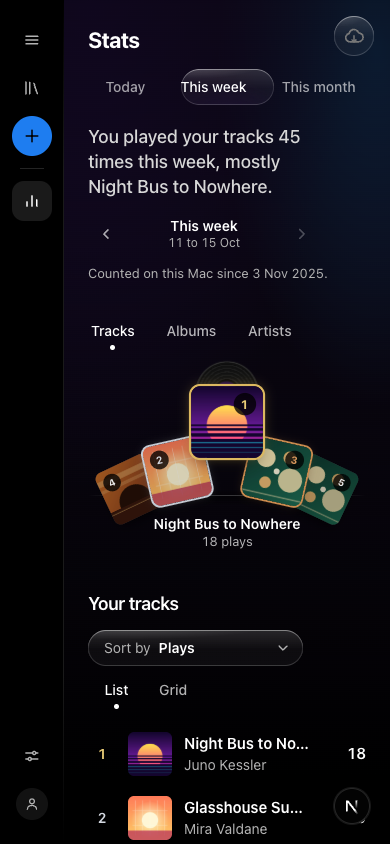
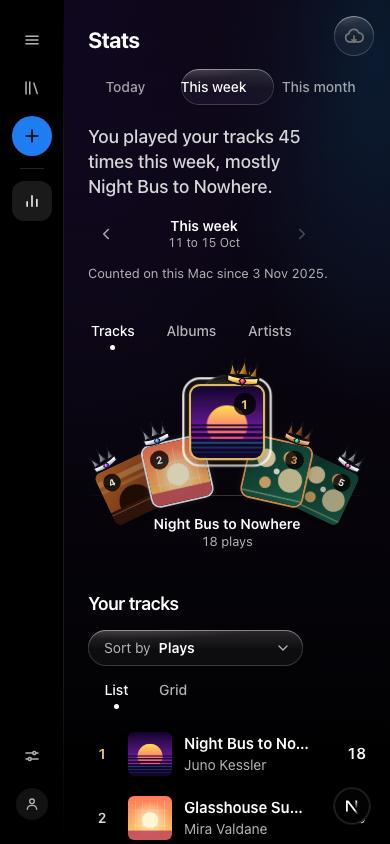
Stats page: rank crowns on the top five sleeves (#145)
Adds inked gothic crowns (scripts/make-rank-crowns.py) on the badge corner of the top five fan sleeves, with a simpler drawing below 64px.
Placement and the small-size rule follow Codex's notes; decorative only, no motion of their own.

Claude-Session: https://claude.ai/code/session_016wtvpvRFjMyGctvKw2v9pz

diff --git a/apps/web/src/app/globals.css b/apps/web/src/app/globals.css
@@ -2301,6 +2301,45 @@ body {
 .fan-rank[data-medal="gold"] { color: #ecce78; }
 .fan-rank[data-medal="silver"] { color: #d3d8e0; }
 .fan-rank[data-medal="bronze"] { color: #dc9a5e; }
+/* The rank crown (top five): perched on the badge's corner, its band just over the sleeve's top edge
+   and the badge beneath it. It lives inside the button so it tilts and lifts with the sleeve, lets
+   every click through (the hit area is the sleeve's) and has no motion of its own. The simpler
+   drawing shows by default; the full one only where the crown is 64px wide or more (see the
+   container query after the narrow block). 0.42 of the sleeve is the crown's width, 0.354 its height. */
+.fan-crown {
+  --fan-crown-w: calc(var(--w) * 0.42);
+  position: absolute;
+  z-index: 2;
+  top: calc(var(--fan-crown-w) * -0.777);
+  right: calc(var(--w) * 0.02);
+  width: var(--fan-crown-w);
+  pointer-events: none;
+  transform-origin: 50% 100%;
+  transform: rotate(7deg);
+}
+.fan-sleeve[data-side="left"] .fan-crown {
+  left: calc(var(--w) * 0.02);
+  right: auto;
+  transform: rotate(-7deg);
+}
+.fan-crown img {
+  display: block;
+  width: 100%;
+  height: auto;
+  pointer-events: none;
+}
+.fan-crown .fan-crown-full {
+  display: none;
+}
+/* A disc's badge sits inside the circle, so the crown rides above it in the square's empty corner. */
+.fan[data-size="page"] .fan-sleeve[data-shape="disc"] .fan-crown {
+  top: calc(var(--fan-crown-w) * -0.777 + var(--w) * 0.1);
+  right: calc(var(--w) * 0.1);
+}
+.fan[data-size="page"] .fan-sleeve[data-shape="disc"][data-side="left"] .fan-crown {
+  left: calc(var(--w) * 0.1);
+  right: auto;
+}
 .fan-tag {
   position: absolute;
   left: 0;
@@ -2400,8 +2439,21 @@ body {
   .fan[data-size="page"] .fan-tag {
     display: none;
   }
+  /* The sleeves are small here, so the crown is a little larger relative to them to stay readable. */
+  .fan[data-size="page"] .fan-crown {
+    --fan-crown-w: calc(var(--w) * 0.56);
+  }
   .fan-caption {
     display: block;
+  }
+}
+/* Room for the page sleeve to be 152px or more (22cqw), so the crown is 64px wide or more: the full drawing. */
+@container (min-width: 700px) {
+  .fan[data-size="page"] .fan-crown .fan-crown-full {
+    display: block;
+  }
+  .fan[data-size="page"] .fan-crown .fan-crown-small {
+    display: none;
   }
 }
 

diff --git a/apps/web/src/components/stats/SleeveFan.tsx b/apps/web/src/components/stats/SleeveFan.tsx
@@ -222,6 +222,14 @@ function Sleeve({
             <MusicNoteIcon className="h-6 w-6" />
           </span>
         )}
+        {item.rank <= 5 && (
+          <span aria-hidden className="fan-crown">
+            {/* eslint-disable-next-line @next/next/no-img-element -- two tiny local SVGs, swapped by CSS at 64px */}
+            <img src={`/crowns/crown-${item.rank}.svg`} alt="" draggable={false} decoding="async" className="fan-crown-full" />
+            {/* eslint-disable-next-line @next/next/no-img-element -- see above */}
+            <img src={`/crowns/crown-${item.rank}-small.svg`} alt="" draggable={false} decoding="async" className="fan-crown-small" />
+          </span>
+        )}
         <span aria-hidden className="fan-rank" data-medal={medal}>
           {item.rank}
         </span>

diff --git a/scripts/make-rank-crowns.py b/scripts/make-rank-crowns.py
@@ -1,0 +1,161 @@
+#!/usr/bin/env python3
+"""Draws the five rank crowns for the Stats fan (#145) as SVG. Gothic ink (white line art round dark
+ink, hatching on the shadow side), spires with gems, metal by medal, gems by rank, an icy pave row and
+glints. Number one is the grandest (five spires). Each rank has a full drawing and a simpler small one
+for under 64px.
+
+Outputs (crown-1.svg .. crown-5.svg and crown-1-small.svg .. crown-5-small.svg):
+  apps/web/public/crowns/
+
+Usage: python3 -I scripts/make-rank-crowns.py apps/web/public/crowns [--preview]
+  --preview also writes preview.html into the out dir (keep that out of the repo).
+"""
+import sys, os
+
+OUT = sys.argv[1]
+PREVIEW = "--preview" in sys.argv[2:]
+os.makedirs(OUT, exist_ok=True)
+
+METALS = {
+    "gold":   ["#fffbe6", "#ffe58a", "#e8b030", "#fff6cc", "#c08414", "#6a4206"],
+    "silver": ["#ffffff", "#eef2f7", "#aeb7c4", "#ffffff", "#7d8797", "#343a46"],
+    "bronze": ["#fff0e0", "#f2b880", "#b0682e", "#fde0c2", "#8c4a1c", "#43210a"],
+}
+GEMS = {
+    "ruby":     ("#ff3148", "#ffa3ad", "#7d0414"),
+    "sapphire": ("#2f97ff", "#b3e0ff", "#082f78"),
+    "emerald":  ("#14cf83", "#aaf7d6", "#04512f"),
+    "amethyst": ("#a052ff", "#dfc2ff", "#3f0f85"),
+    "rose":     ("#ff55b0", "#ffc8e7", "#86104f"),
+}
+RANKS = [(1, "gold", "ruby"), (2, "silver", "sapphire"), (3, "bronze", "emerald"), (4, "silver", "amethyst"), (5, "silver", "rose")]
+INK = "#120e17"
+
+def f(n):
+    return f"{n:.2f}".rstrip("0").rstrip(".")
+
+def spire(bl, br, tx, ty, by, bend=0.55):
+    """A gothic spire: concave sides that flare at the base and pinch to a sharp tip."""
+    cx = (bl + br) / 2
+    h = by - ty
+    return (f"M{f(bl)} {f(by)} "
+            f"C{f(bl + (cx - bl) * 0.55)} {f(by - h * 0.25)} {f(tx - (tx - bl) * bend * 0.35)} {f(ty + h * 0.45)} {f(tx)} {f(ty)} "
+            f"C{f(tx + (br - tx) * bend * 0.35)} {f(ty + h * 0.45)} {f(br - (br - cx) * 0.55)} {f(by - h * 0.25)} {f(br)} {f(by)} Z")
+
+def gem(cx, cy, w, h, key, gid):
+    base, light, dark = GEMS[key]
+    t, b, l, r = cy - h * 0.5, cy + h * 0.5, cx - w * 0.5, cx + w * 0.5
+    g = cy - h * 0.1
+    return (f'<path d="M{f(cx)} {f(t)} L{f(r)} {f(g)} L{f(cx)} {f(b)} L{f(l)} {f(g)} Z" fill="url(#{gid})" stroke="{INK}" stroke-width="1.5" stroke-linejoin="round"/>'
+            f'<path d="M{f(cx)} {f(t)} L{f(r)} {f(g)} L{f(cx)} {f(g + h * .1)} Z" fill="{light}" opacity=".6"/>'
+            f'<path d="M{f(l)} {f(g)} L{f(cx)} {f(g + h * .1)} L{f(cx)} {f(b)} Z" fill="{dark}" opacity=".6"/>'
+            f'<path d="M{f(l)} {f(g)} L{f(r)} {f(g)}" stroke="{INK}" stroke-width=".6" opacity=".55"/>'
+            f'<circle cx="{f(cx - w * .17)}" cy="{f(g - h * .16)}" r="{f(max(.8, w * .1))}" fill="#fff"/>')
+
+def stud(cx, cy, r):
+    return (f'<circle cx="{f(cx)}" cy="{f(cy)}" r="{f(r)}" fill="url(#ice)" stroke="{INK}" stroke-width=".8"/>'
+            f'<circle cx="{f(cx - r * .35)}" cy="{f(cy - r * .35)}" r="{f(r * .38)}" fill="#fff"/>')
+
+def sparkle(cx, cy, s, op=1.0):
+    k = s * 0.14
+    return (f'<path d="M{f(cx)} {f(cy - s)} C{f(cx + k)} {f(cy - k)} {f(cx + k)} {f(cy - k)} {f(cx + s)} {f(cy)} '
+            f'C{f(cx + k)} {f(cy + k)} {f(cx + k)} {f(cy + k)} {f(cx)} {f(cy + s)} C{f(cx - k)} {f(cy + k)} {f(cx - k)} {f(cy + k)} {f(cx - s)} {f(cy)} '
+            f'C{f(cx - k)} {f(cy - k)} {f(cx - k)} {f(cy - k)} {f(cx)} {f(cy - s)} Z" fill="#fff" opacity="{op}"/>')
+
+def crown(rank, metal, gemkey):
+    m = METALS[metal]
+    grand = rank == 1
+    # (base left, base right, tip x, tip y, base y, is_main)
+    spires = [(14, 42, 19, 12, 60, True), (42, 78, 60, 2, 56, True), (78, 106, 101, 12, 60, True)]
+    if grand:
+        spires = [(34, 50, 41, 24, 58, False), (70, 86, 79, 24, 58, False)] + spires
+    back = "M14 58 Q60 40 106 58 L104 64 Q60 50 16 64 Z"   # the inside of the band, seen between spires
+    band = "M10 60 Q60 73 110 60 L108 78 Q60 93 12 78 Z"
+    shapes = "".join(f'<path d="{spire(*s[:5])}"/>' for s in spires)
+    # hatching only on each spire's shadow (right) side, clipped to that spire
+    defs, hatch = [], []
+    for i, (bl, br, tx, ty, by, main) in enumerate(spires):
+        cid = f"s{rank}{i}"
+        defs.append(f'<clipPath id="{cid}"><path d="{spire(bl, br, tx, ty, by)}"/></clipPath>')
+        x0 = tx + 1.5
+        lines = "".join(f'<path d="M{f(x)} {f(ty - 4)} L{f(x - 9)} {f(by + 4)}"/>' for x in [x0 + j * 2.6 for j in range(int((br - x0) / 2.6) + 4)])
+        hatch.append(f'<g clip-path="url(#{cid})">{lines}</g>')
+    # white ink highlight along each spire's lit (left) edge
+    lit = "".join(
+        f'<path d="M{f(bl + 3)} {f(by - 3)} C{f(bl + (tx - bl) * .45 + 2)} {f(by - (by - ty) * .3)} {f(tx - (tx - bl) * .2 + 1)} {f(ty + (by - ty) * .4)} {f(tx + .4)} {f(ty + 4)}"/>'
+        for (bl, br, tx, ty, by, main) in spires if main)
+    gems, gdefs = [], []
+    for i, (bl, br, tx, ty, by, main) in enumerate(spires):
+        if not main:
+            continue
+        gid = f"g{rank}{i}"
+        base, light, dark = GEMS[gemkey]
+        gdefs.append(f'<radialGradient id="{gid}" cx="38%" cy="32%" r="78%"><stop offset="0" stop-color="{light}"/><stop offset=".45" stop-color="{base}"/><stop offset="1" stop-color="{dark}"/></radialGradient>')
+        gx = tx + ((bl + br) / 2 - tx) * .55
+        gy = by - (by - ty) * .36
+        size = 19 if bl == 42 else 14.5
+        gems.append(gem(gx, gy, size * .74, size, gemkey, gid))
+    gid = f"g{rank}band"
+    base, light, dark = GEMS[gemkey]
+    gdefs.append(f'<radialGradient id="{gid}" cx="38%" cy="32%" r="78%"><stop offset="0" stop-color="{light}"/><stop offset=".45" stop-color="{base}"/><stop offset="1" stop-color="{dark}"/></radialGradient>')
+    band_gem = gem(60, 74.5, 13, 15, gemkey, gid)
+    pave = "".join(stud(x, 69.5 + 4.6 * (1 - ((x - 60) / 50) ** 2) - 0.5, 1.9 if grand else 1.7)
+                   for x in ([18, 25, 32, 39, 46, 74, 81, 88, 95, 102] if grand else [22, 31, 40, 80, 89, 98]))
+    glints = sparkle(60, 2, 7 if grand else 5) + sparkle(106, 30, 4, .9) + sparkle(13, 40, 3, .8) + (sparkle(84, 66, 3.2, .95) if grand else "")
+    return f'''<svg xmlns="http://www.w3.org/2000/svg" viewBox="-4 -8 128 108" width="128" height="108">
+  <defs>
+    <linearGradient id="m{rank}" x1="0" y1="0" x2="1" y2=".25">
+      <stop offset="0" stop-color="{m[1]}"/><stop offset=".22" stop-color="{m[2]}"/><stop offset=".5" stop-color="{m[5]}"/>
+      <stop offset="1" stop-color="#17121c"/>
+    </linearGradient>
+    <linearGradient id="b{rank}" x1="0" y1="0" x2="0" y2="1">
+      <stop offset="0" stop-color="{m[3]}"/><stop offset=".3" stop-color="{m[1]}"/><stop offset=".65" stop-color="{m[4]}"/><stop offset="1" stop-color="{m[5]}"/>
+    </linearGradient>
+    <linearGradient id="in{rank}" x1="0" y1="0" x2="0" y2="1"><stop offset="0" stop-color="{m[5]}"/><stop offset="1" stop-color="{m[4]}"/></linearGradient>
+    <radialGradient id="ice" cx="35%" cy="35%" r="70%"><stop offset="0" stop-color="#fff"/><stop offset=".55" stop-color="#d6efff"/><stop offset="1" stop-color="#7895ad"/></radialGradient>
+    {"".join(defs)}{"".join(gdefs)}
+  </defs>
+  <!-- white line art round the dark ink, as on the reference cover -->
+  <g fill="none" stroke="#f4f1ea" stroke-width="1.6" stroke-linejoin="round" stroke-linecap="round" stroke-dasharray="14 5 3 6" opacity=".7">{shapes}<path d="{band}"/></g>
+  <path d="{back}" fill="url(#in{rank})" stroke="{INK}" stroke-width="2" stroke-linejoin="round"/>
+  <g fill="url(#m{rank})" stroke="{INK}" stroke-width="2.4" stroke-linejoin="round">{shapes}</g>
+  <g stroke="#f4f1ea" stroke-width=".5" opacity=".22">{"".join(hatch)}</g>
+  <g fill="none" stroke="{m[0]}" stroke-width="1.4" stroke-linecap="round" opacity=".95">{lit}</g>
+  <path d="{band}" fill="url(#b{rank})" stroke="{INK}" stroke-width="2.4" stroke-linejoin="round"/>
+  <path d="M14 63.5 Q60 76 106 63.5" fill="none" stroke="#fff" stroke-width="1" opacity=".6"/>
+  <path d="M15 76 Q60 89 105 76" fill="none" stroke="{INK}" stroke-width=".9" opacity=".55"/>
+  {"".join(gems)}{pave}{band_gem}
+  {glints}
+</svg>'''
+
+def crown_small(rank, metal, gemkey):
+    m = METALS[metal]
+    grand = rank == 1
+    spires = [(14, 42, 19, 12, 60), (42, 78, 60, 2, 56), (78, 106, 101, 12, 60)]
+    if grand:
+        spires = [(34, 50, 41, 24, 58), (70, 86, 79, 24, 58)] + spires
+    band = "M10 60 Q60 73 110 60 L108 80 Q60 95 12 80 Z"
+    shapes = "".join(f'<path d="{spire(*s)}"/>' for s in spires)
+    base, light, dark = GEMS[gemkey]
+    return f'''<svg xmlns="http://www.w3.org/2000/svg" viewBox="-4 -8 128 108" width="128" height="108">
+  <defs>
+    <linearGradient id="sm{rank}" x1="0" y1="0" x2="1" y2=".25"><stop offset="0" stop-color="{m[1]}"/><stop offset=".3" stop-color="{m[2]}"/><stop offset="1" stop-color="{m[5]}"/></linearGradient>
+    <linearGradient id="sb{rank}" x1="0" y1="0" x2="0" y2="1"><stop offset="0" stop-color="{m[3]}"/><stop offset=".4" stop-color="{m[1]}"/><stop offset="1" stop-color="{m[4]}"/></linearGradient>
+    <radialGradient id="sg{rank}" cx="38%" cy="32%" r="78%"><stop offset="0" stop-color="{light}"/><stop offset=".45" stop-color="{base}"/><stop offset="1" stop-color="{dark}"/></radialGradient>
+  </defs>
+  <g fill="url(#sm{rank})" stroke="{INK}" stroke-width="5" stroke-linejoin="round">{shapes}</g>
+  <path d="{band}" fill="url(#sb{rank})" stroke="{INK}" stroke-width="5" stroke-linejoin="round"/>
+  <path d="M60 64 L71 76 L60 90 L49 76 Z" fill="url(#sg{rank})" stroke="{INK}" stroke-width="3.5" stroke-linejoin="round"/>
+</svg>'''
+
+for rank, metal, g in RANKS:
+    with open(os.path.join(OUT, f"crown-{rank}.svg"), "w") as fh:
+        fh.write(crown(rank, metal, g))
+    with open(os.path.join(OUT, f"crown-{rank}-small.svg"), "w") as fh:
+        fh.write(crown_small(rank, metal, g))
+if PREVIEW:
+    cells = "".join(f'<figure><img src="crown-{r}.svg" style="width:{w}px"><figcaption>#{r} full {w}px</figcaption></figure>' for w in (230, 96, 64) for r, m, g in RANKS)
+    cells += "".join(f'<figure class="{bg}"><img src="crown-{r}-small.svg" style="width:{w}px"><figcaption>#{r} small {w}px</figcaption></figure>' for bg in ("dark", "pale") for w in (56, 30) for r, m, g in RANKS)
+    with open(os.path.join(OUT, "preview.html"), "w") as fh:
+        fh.write(f'<!doctype html><meta charset="utf-8"><style>body{{margin:0;padding:24px;background:#0e0b14;color:#9a95a3;font:12px -apple-system;display:grid;grid-template-columns:repeat(5,1fr);gap:16px;align-items:end}} figure{{margin:0;text-align:center;padding:8px 0;border-radius:6px}} .pale{{background:#efe3c8;color:#5b5040}} .dark{{background:#2a1f33}} img{{display:block;margin:0 auto 6px}}</style>{cells}')
+print("ok")

diff --git a/docs/design.md b/docs/design.md
@@ -344,6 +344,7 @@ eyebrows still apply to those labels.
     #4 and #5 outside; with fewer than five the same rule runs and the set is centred, no empty
     slots, the tilt per step widening as the fan thins (`lib/fan-layout.ts`); no items means the
     period's empty line, no fan. Hover or focus lifts a sleeve with name and plays; its record only peeks (a crescent of the rim above the sleeve, about 18%, the label stays hidden); artists are round discs. The page fan is a wheel: the sleeves tilt round one far pivot, so they sit on one shallow arc (not a half circle), and it is stacked with depth, each step out a little smaller and darker, like cards. The chosen one lifts, grows and loses its shade, and ← → wheel through them left to right; the lift stays on the keyboard-focused sleeve when the pointer leaves. The sidebar's shelf is the original tight stack of three, number one in front, with the same depth and shading. Under about 545px of room the chosen sleeve's name and plays sit in a caption under the fan instead of on the cover, and the narrow wheel lifts the chosen sleeve higher (0.6 of its width) so it clears its neighbours: at least 47px of each sleeve stays to tap in every selection state at 390px (about 41px at 360px and 36px at 320px).
+    The top five wear rank crowns (metal by medal, gems by rank: gold/ruby, silver/blue, bronze/emerald, silver/purple, silver/pink): inked gothic drawings from `scripts/make-rank-crowns.py`, perched on the badge corner above the rank number, a simpler drawing below 64px wide (the shelf and the narrow page). Decorative only (hidden from screen readers, clicks pass through) with no motion of their own; they move with their sleeve.
   - **Activation**: a sleeve, list row and grid tile is a button. A sleeve first plays a short
     opening beat (360ms: the record slides further out, the sleeve lifts and grows a little; none
     under reduced motion, which opens at once), then the release opens. A track opens its release
